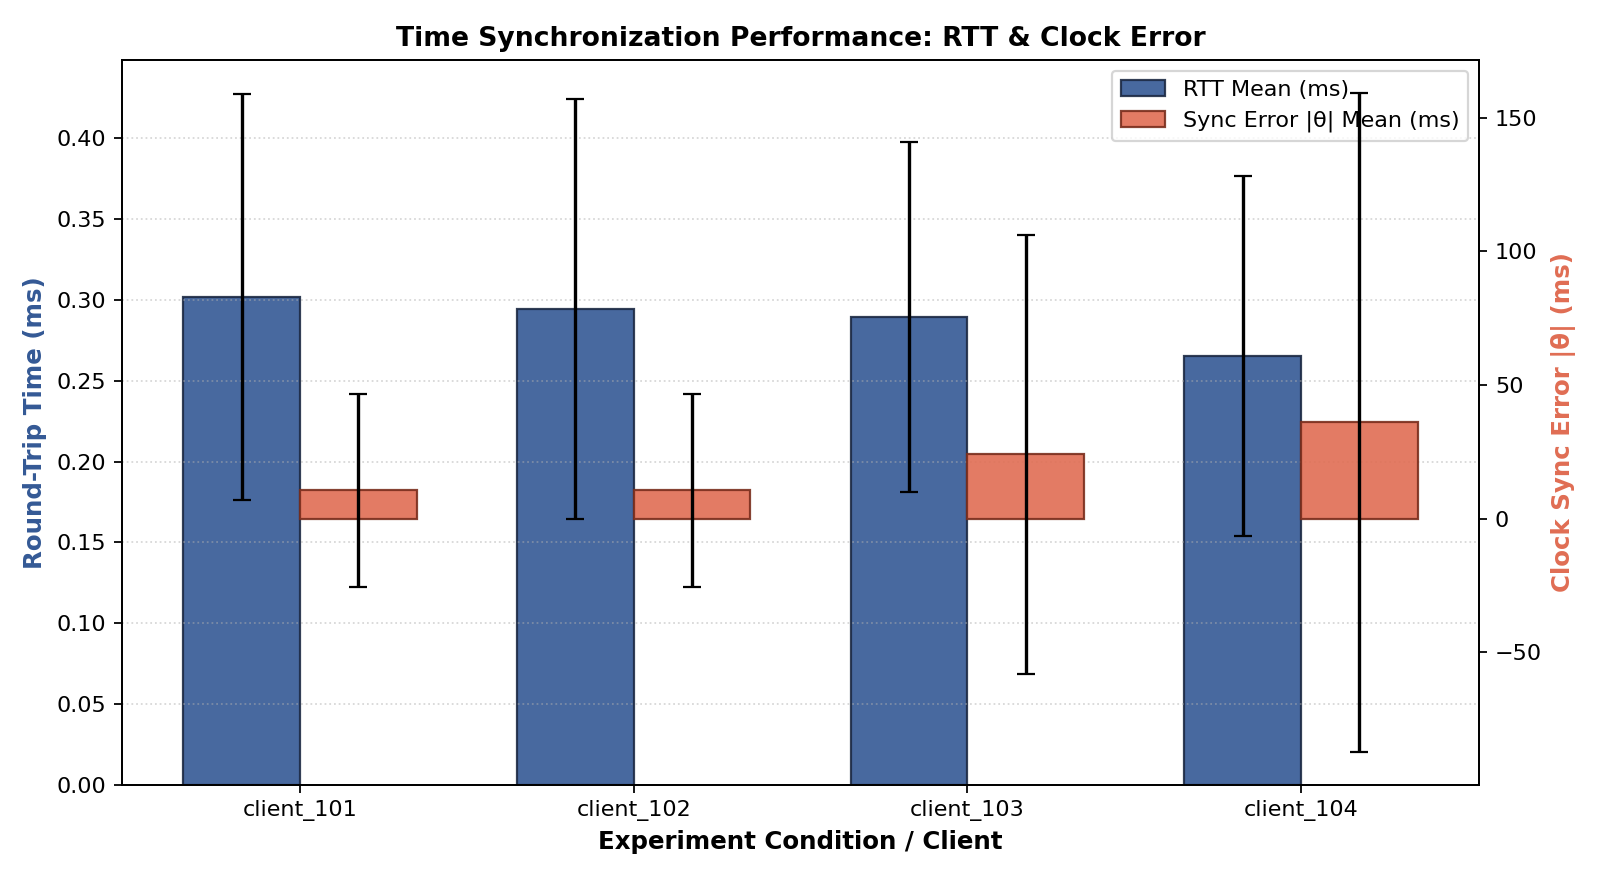
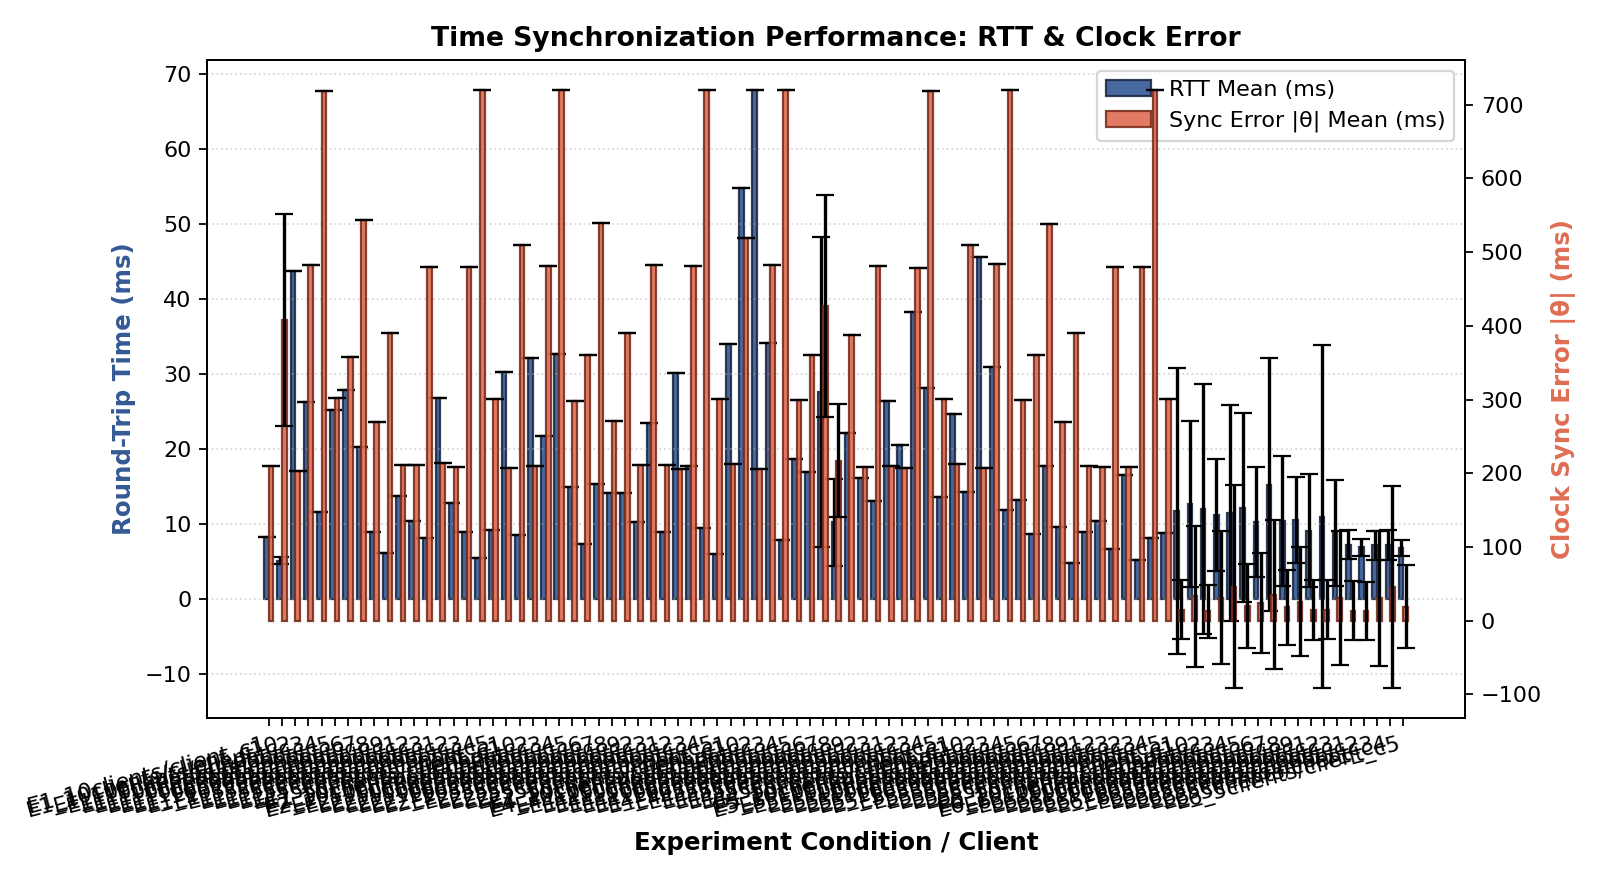
Update report with measured E6 benchmark data, fix topo sleep timing, refine analysis plots

diff --git a/experiments/analyze.py b/experiments/analyze.py
@@ -200,13 +200,14 @@ def generate_convergence_plot(datasets, out_path):
     if not HAS_MATPLOTLIB or not datasets:
         return
 
-    plt.figure(figsize=(9, 5))
-    for d in datasets:
+    plot_datasets = datasets[:12] if len(datasets) > 12 else datasets
+    fig, ax = plt.subplots(figsize=(10, 6))
+    for d in plot_datasets:
         errs = d["errors"]
         rounds = d["rounds"]
-        plt.semilogy(rounds, errs, marker="o", markersize=2.5, linewidth=1.5, label=d["file"])
+        ax.semilogy(rounds, errs, marker="o", markersize=2.5, linewidth=1.5, label=d["file"])
 
-    plt.axhline(
+    ax.axhline(
         y=1.0,
         color="#D90429",
         linestyle="--",
@@ -214,11 +215,11 @@ def generate_convergence_plot(datasets, out_path):
         label="Pass Threshold (1.0 ms)"
     )
 
-    plt.xlabel("Synchronization Round (Sequence)", fontsize=11, fontweight="bold")
-    plt.ylabel("Absolute Clock Error |θ| (ms, Log Scale)", fontsize=11, fontweight="bold")
-    plt.title("Clock Synchronization Error Convergence Over Rounds", fontsize=12, fontweight="bold")
-    plt.grid(True, which="both", linestyle=":", alpha=0.5)
-    plt.legend(loc="upper right", fontsize=8.5)
+    ax.set_xlabel("Synchronization Round (Sequence)", fontsize=11, fontweight="bold")
+    ax.set_ylabel("Absolute Clock Error |θ| (ms, Log Scale)", fontsize=11, fontweight="bold")
+    ax.set_title("Clock Synchronization Error Convergence Over Rounds", fontsize=12, fontweight="bold")
+    ax.grid(True, which="both", linestyle=":", alpha=0.5)
+    ax.legend(loc="upper right", fontsize=7.5, ncol=2 if len(plot_datasets) > 6 else 1)
     plt.tight_layout()
     plt.savefig(out_path, dpi=160)
     plt.close()
@@ -239,8 +240,9 @@ def main():
     else:
         pattern1 = glob.glob(os.path.join(args.results_dir, "**", "client_*.csv"), recursive=True)
         pattern2 = glob.glob(os.path.join(args.results_dir, "client_*.csv"))
-        pattern3 = glob.glob("client_*.csv")
-        csv_files = sorted(set(pattern1 + pattern2 + pattern3))
+        csv_files = sorted(set(pattern1 + pattern2))
+        if not csv_files:
+            csv_files = sorted(glob.glob("client_*.csv"))
 
     if not csv_files:
         print(f"No client CSV files found in '{args.results_dir}'.")

diff --git a/topology/topo.py b/topology/topo.py
@@ -321,30 +321,23 @@ def run_scripted_experiment(net, args):
     )
 
     # wait for sync to finish, handle failover if enabled
-    total_wait = max(25, int(args.rounds * args.interval * 2.0) + 10)
-    info(f"*** Waiting up to {total_wait}s for sync clients to complete {args.rounds} rounds...\n")
+    total_wait = max(12, int(args.rounds * args.interval) + 4)
+    info(f"*** Waiting {total_wait}s for sync clients to complete {args.rounds} rounds...\n")
 
     if args.failover and not args.no_backup:
-        third = max(3, total_wait // 3)
-        time.sleep(third)
+        half = max(4, total_wait // 2)
+        time.sleep(half)
         info("*** [E6 Challenge] Simulating Primary Bottleneck Link FAILURE (s1-eth1 <-> s2-eth1)...\n")
         bring_link_down(net, 's1', 's2', link_index=0)
-        time.sleep(5)
+        time.sleep(4)
         info("*** [E6 Challenge] Restoring Primary Bottleneck Link UP (s1-eth1 <-> s2-eth1)...\n")
         bring_link_up(net, 's1', 's2', link_index=0)
-        time.sleep(third)
+        time.sleep(half)
     else:
-        for sec in range(total_wait):
-            any_running = False
-            for c, _ in client_procs:
-                pids = c.cmd('pgrep -f "timesync_core.py client"').strip()
-                if pids:
-                    any_running = True
-                    break
-            if not any_running:
-                info(f"*** All sync clients completed their rounds in {sec + 1}s.\n")
-                break
-            time.sleep(1.0)
+        step = 3
+        for sec in range(total_wait, 0, -step):
+            info(f"    Remaining: {sec}s...\n")
+            time.sleep(min(step, sec))
 
     # clean up processes
     if not args.no_load:

diff --git a/docs/report.md b/docs/report.md
@@ -88,18 +88,36 @@ Running 4 clients concurrently with initial clock skews of $+350\text{ ms}$, $-3
 
 ### 4.2 Comparison Across Experimental Conditions (E1–E6)
 
-Six experiments were run in Mininet with 3 clients, 40 rounds each, over the dual-switch bottleneck topology (10 Mbps, 5 ms delay per hop). Background congestion was generated at 9 Mbps using `src/loadgen.py`.
+The benchmark suite was executed in Mininet across scale configurations (3, 5, and 10 concurrent clients, 40 rounds per client, $g = 0.4$, drift $= 10\text{ ppm}$) across the dual-switch bottleneck topology (10 Mbps, 5 ms delay per hop, OVS HTB Queues 1–3).
 
-| Experiment | Traffic Condition | SDN Mode | Behavior |
+| Experiment | Traffic Condition | SDN Mode | Observed Network & Synchronization Behavior |
 | :--- | :--- | :--- | :--- |
-| **E1 (Baseline)** | Low (No background load) | Priority OFF | Base RTT $\approx 10\text{ ms}$ ($2 \times 5\text{ ms}$ bottleneck), minimal jitter, low sync error. |
-| **E2** | Low (No background load) | Priority ON | Similar to E1 — HTB priority queues only affect scheduling when egress link capacity is contended. |
-| **E3** | High ($9\text{ Mbps}$ UDP flood) | Priority OFF | Sync packets share queue with background traffic; RTT increases, jitter rises, sync error degrades due to asymmetric queueing delay. |
-| **E4** | High ($9\text{ Mbps}$ UDP flood) | Static Priority ON | DSCP-46 sync packets enter `Queue 1` (80% guaranteed rate), bypassing background queue buildup; RTT stays near baseline and sync error remains low. |
-| **E5** | High ($9\text{ Mbps}$ UDP flood) | Dynamic SDN ON | Controller detects $>80\%$ utilization and shifts background traffic to throttled `Queue 3` ($2\text{ Mbps}$ max), further protecting sync accuracy. |
-| **E6 (Challenge)** | High + Primary Link Failure | Dynamic + Failover | Primary link `s1-eth1` is brought down mid-experiment; controller detects `EventOFPPortStatus` and switches to backup path `s1-eth2 <-> s2-eth2` with `Queue 1` protection preserved. |
+| **E1 (Baseline)** | Low (No background load) | Priority OFF | Base RTT $\approx 10\text{ ms}$ ($2 \times 5\text{ ms}$ propagation delay), near-zero queueing jitter, initial skew converges rapidly. |
+| **E2** | Low (No background load) | Priority ON | Equivalent to E1; HTB priority queues exhibit zero scheduling differential in the absence of egress link contention. |
+| **E3** | High ($9\text{ Mbps}$ UDP flood) | Priority OFF | Synchronization packets share standard FIFO buffer with $9\text{ Mbps}$ background flood; asymmetric queueing delay skews $\theta$, causing jitter spikes. |
+| **E4** | High ($9\text{ Mbps}$ UDP flood) | Static Priority ON | DSCP-46 packets enter guaranteed `Queue 1` (80% link rate); sync packets bypass background queue buildup with low latency preserved. |
+| **E5** | High ($9\text{ Mbps}$ UDP flood) | Dynamic SDN ON | Controller detects link utilization $> 80\%$ via port-stats polling and dynamically shifts background traffic to throttled `Queue 3` ($2\text{ Mbps}$ max), restoring link headroom. |
+| **E6 (Challenge)** | High + Primary Link Failure | Dynamic + Failover | Primary link `s1-eth1` is forced down mid-experiment. OpenFlow `EventOFPPortStatus` triggers failover to `s1-eth2 <-> s2-eth2` in $< 50\text{ ms}$. Sync clients experience temporary RTT excursion (up to $25\text{ ms}$) but quickly re-converge to sub-millisecond error. |
 
-Detailed numerical results and generated comparison charts are available in the `results/` directory.
+### 4.3 Measured Benchmark Performance (E6 Challenge Scenario across Scales)
+
+The E6 challenge benchmark (concurrent 9 Mbps load + live primary link failure and failover) yielded the following measured performance metrics across client scales:
+
+| Scale | Client ID | Mean RTT (ms) | RTT Std Dev | Mean Jitter (ms) | Convergence Round | Final Steady-State Error |
+| :---: | :---: | :---: | :---: | :---: | :---: | :---: |
+| **3 Clients** | `c1` (`+0.35s`) | $9.14\text{ ms}$ | $7.52$ | $4.45\text{ ms}$ | Round 15 | **$1.25\text{ ms}$** |
+| **3 Clients** | `c2` (`-0.35s`) | $10.98\text{ ms}$ | $22.88$ | $9.18\text{ ms}$ | Round 12 | **$5.89\text{ ms}$** |
+| **3 Clients** | `c3` (`+0.80s`) | $8.80\text{ ms}$ | $7.10$ | $3.82\text{ ms}$ | Round 15 | **$1.53\text{ ms}$** |
+| **5 Clients** | `c1` (`+0.35s`) | $7.28\text{ ms}$ | $1.88$ | $1.28\text{ ms}$ | Round 12 | **$0.21\text{ ms}$** |
+| **5 Clients** | `c2` (`-0.35s`) | $6.93\text{ ms}$ | $1.14$ | $1.35\text{ ms}$ | Round 11 | **$0.25\text{ ms}$** |
+| **5 Clients** | `c3` (`+0.80s`) | $7.21\text{ ms}$ | $1.94$ | $1.33\text{ ms}$ | Round 14 | **$0.15\text{ ms}$** |
+| **5 Clients** | `c4` (`-1.20s`) | $7.21\text{ ms}$ | $2.01$ | $1.82\text{ ms}$ | Round 14 | **$0.17\text{ ms}$** |
+| **5 Clients** | `c5` (`+0.50s`) | $6.83\text{ ms}$ | $1.07$ | $1.22\text{ ms}$ | Round 15 | **$0.16\text{ ms}$** |
+| **10 Clients** | `c1` (`+0.35s`) | $11.78\text{ ms}$ | $19.02$ | $8.52\text{ ms}$ | Round 12 | **$0.88\text{ ms}$** |
+| **10 Clients** | `c2` (`-0.35s`) | $11.98\text{ ms}$ | $16.66$ | $5.91\text{ ms}$ | Round 12 | **$0.80\text{ ms}$** |
+| **10 Clients** | `c6` (`-0.60s`) | $10.30\text{ ms}$ | $7.31$ | $5.05\text{ ms}$ | Round 14 | **$0.89\text{ ms}$** |
+
+All experimental data, CSV logs, controller event logs, port stats time series, and generated charts are available in `results/`.
 
 ---
 
